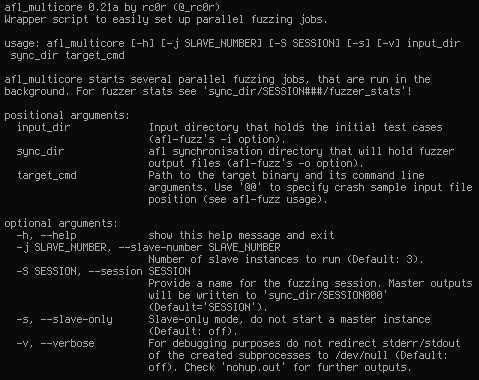
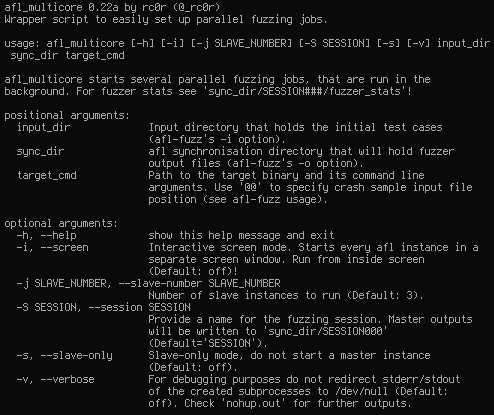
Screen mode added to afl_multicore

diff --git a/afl_utils/afl_multicore.py b/afl_utils/afl_multicore.py
@@ -17,6 +17,7 @@ limitations under the License.
 import argparse
 import subprocess
 import sys
+import time
 
 import afl_utils
 
@@ -30,18 +31,53 @@ def show_info():
     print("")
 
 
+def check_screen():
+    inside_screen = False
+    try:
+        screen_output = subprocess.check_output("screen -ls", shell=True, stderr=subprocess.DEVNULL,
+                                                universal_newlines=True)
+    except (subprocess.TimeoutExpired, subprocess.CalledProcessError) as e:
+        screen_output = e.output
+
+    screen_output = screen_output.splitlines()
+
+    for line in screen_output:
+        if "(Attached)" in line:
+            inside_screen = True
+
+    return inside_screen
+
+
+def setup_screen(slave_only, slave_num):
+    windows = slave_num
+
+    if not slave_only:
+        windows += 1
+
+    # create number of windows
+    for i in range(0, windows, 1):
+        subprocess.Popen(["screen"])
+        time.sleep(.01)
+
+    # go back to 1st window
+    subprocess.Popen("screen -X select 1".split())
+
+
 def main(argv):
     show_info()
 
     parser = argparse.ArgumentParser(description="afl_multicore starts several parallel fuzzing jobs, that are run \
 in the background. For fuzzer stats see 'sync_dir/SESSION###/fuzzer_stats'!",
-                                     usage="afl_multicore [-h] [-j SLAVE_NUMBER] [-S SESSION] [-s] [-v] input_dir\n \
+                                     usage="afl_multicore [-h] [-i] [-j SLAVE_NUMBER] [-S SESSION] [-s] [-v] input_dir\n \
 sync_dir target_cmd")
 
     parser.add_argument("input_dir",
                         help="Input directory that holds the initial test cases (afl-fuzz's -i option).")
     parser.add_argument("sync_dir", help="afl synchronisation directory that will hold fuzzer output files \
 (afl-fuzz's -o option).")
+    parser.add_argument("-i", "--screen", dest="screen", action="store_const", const=True,
+                        default=False, help="Interactive screen mode. Starts every afl instance in a separate screen \
+window. Run from inside screen (Default: off)!")
     parser.add_argument("-j", "--slave-number", dest="slave_number", help="Number of slave instances to run (Default: \
 3).", default=3)
     parser.add_argument("-S", "--session", dest="session",
@@ -70,35 +106,52 @@ Use '@@' to specify crash sample input file position (see afl-fuzz usage).")
         print("No valid directory provided for <sync_dir>!")
         return
 
+    if args.screen:
+        if not check_screen():
+            print("When using screen mode, please run afl_multicore from inside a screen session!")
+            return
+
+        setup_screen(args.slave_only, args.slave_number)
+
     if not args.slave_only:
         # compile command-line for master
-        # afl-master instance:
         # $ afl-fuzz -i <input_dir> -o <sync_dir> -M <session_name>.000 </path/to/target.bin> <target_args>
         master_cmd = "%s -i %s -o %s -M %s000 -- %s" % (afl_path, input_dir, sync_dir, args.session, " ".join(args.target_cmd))
         print("Starting master instance...")
 
-        if not args.verbose:
-            master = subprocess.Popen(" ".join(['nohup', master_cmd]).split(), stdout=subprocess.DEVNULL, stderr=subprocess.DEVNULL)
+        if not args.screen:
+            if not args.verbose:
+                master = subprocess.Popen(" ".join(['nohup', master_cmd]).split(), stdout=subprocess.DEVNULL, stderr=subprocess.DEVNULL)
+            else:
+                master = subprocess.Popen(" ".join(['nohup', master_cmd]).split())
+            print("Master 000 started (PID: %d)" % master.pid)
         else:
-            master = subprocess.Popen(" ".join(['nohup', master_cmd]).split())
+            screen_cmd = ["screen", "-X", "eval", "exec %s" % master_cmd, "next"]
+            subprocess.Popen(screen_cmd)
+            print("Master 000 started inside new screen window")
 
-        print("Master started (PID: %d)" % master.pid)
-
-    # compile command-lines for slaves
-    # afl-slave instance:
+    # compile command-line for slaves
     # $ afl-fuzz -i <input_dir> -o <sync_dir> -S <session_name>.NNN </path/to/target.bin> <target_args>
     print("Starting slave instances...")
     for i in range(1, int(args.slave_number)+1, 1):
         slave_cmd = "%s -i %s -o %s -S %s%03d -- %s" % (afl_path, input_dir, sync_dir, args.session, i, " ".join(args.target_cmd))
 
-        if not args.verbose:
-            slave = subprocess.Popen(" ".join(['nohup', slave_cmd]).split(), stdout=subprocess.DEVNULL, stderr=subprocess.DEVNULL)
+        if not args.screen:
+            if not args.verbose:
+                slave = subprocess.Popen(" ".join(['nohup', slave_cmd]).split(), stdout=subprocess.DEVNULL, stderr=subprocess.DEVNULL)
+            else:
+                slave = subprocess.Popen(" ".join(['nohup', slave_cmd]).split())
+            print("Slave %03d started (PID: %d)" % (i, slave.pid))
         else:
-            slave = subprocess.Popen(" ".join(['nohup', slave_cmd]).split())
+            screen_cmd = ["screen", "-X", "eval", "exec %s" % slave_cmd, "next"]
+            subprocess.Popen(screen_cmd)
+            print("Slave %03d started inside new screen window" % i)
 
-        print("Slave %03d started (PID: %d)" % (i, slave.pid))
-
-    print("\nFor progress info check: %s/%sxxx/fuzzer_stats!" % (args.sync_dir, args.session))
+    print("")
+    if not args.screen:
+        print("For progress info check: %s/%sxxx/fuzzer_stats!" % (args.sync_dir, args.session))
+    else:
+        print("Check the newly created screen windows!")
 
 
 if __name__ == "__main__":

diff --git a/afl_utils/__init__.py b/afl_utils/__init__.py
@@ -15,4 +15,4 @@ limitations under the License.
 """
 
 __author__ = 'rc0r (@_rc0r)'
-__version__ = "0.21a"
+__version__ = "0.22a"

diff --git a/README.md b/README.md
@@ -40,7 +40,8 @@ found with [american-fuzzy-lop (afl)](http://lcamtuf.coredump.cx/afl/).
           the crash collection step;
           [some ideas](https://groups.google.com/forum/#!topic/afl-users/b5v3mY_hy30))
 - [x] afl_multicore: wrapper script that starts multiple afl-instances for parallel fuzzing on multiple cores
-    - [ ] tmux/screen mode
+    - [x] screen mode
+    - [ ] tmux mode (only, if anybody wants to have that)
     - [ ] afl_multicore_exit/kill for quitting/killing all jobs at once
     - [ ] afl_multicore_watch for checking fuzzer_stats?
 - [ ] afl_resume: wrapper script that resumes multiple afl-instances at once
@@ -71,10 +72,11 @@ Sample output:
 afl's fancy interface is gone. Fuzzer outputs (`stdout` and `stderr`) will be redirected to `/dev/null`.
 Use `--verbose` to see the outputs (`nohup.out` might also contain some useful info).
 If you want to check the fuzzers' progress see `fuzzer_stats` in the respective fuzzer directory in
-the synchronisation dir (`sync_dir/SESSION###/fuzzer_stats`)!
-I might be adding some `tmux` or `screen` mode allowing to run the fuzzer instances in `tmux`/`screen`
-with a separate window for each instance. This would bring back the nice interface and would be handy
-in debugging faulty invocations of `afl-fuzz`.
+the synchronisation dir (`sync_dir/SESSION###/fuzzer_stats`)! The master instance files are always located
+at `sync_dir/SESSION000/`.
+In version 0.22a screen mode was introduced that can be enabled using the `-i` switch. In order to
+use it, start `afl_multicore` from inside a `screen` session. For every instance it will start the fancy
+afl-fuzz UI in a newly created screen window.
 
 Usage:  
 
@@ -94,19 +96,3 @@ Usage:
 
 ![afl_vcrash_usage](https://raw.githubusercontent.com/rc0r/afl-utils/master/.scrots/afl_vcrash_usage.png)
   
-### Changelog
-
-Release | Description
-:-------:|----
-0.10a | Initial release, just collect crash sample files
-0.11a | Crash sample file list creation added, afl_vcrash added
-0.12a | gdb+exploitable script generation added
-0.13a | Auto-cleanup of invalid crash samples added
-0.14a | gdb+exploitable script execution and output parsing added for easy crash classification
-0.15a | Code refactoring, minor bug fixes
-0.16a | Minor bug fix for gdb+exploitable script generation
-0.17a | Basic SQLite3 database support added
-0.18a | Fixed gdb+exploitable script interruptions that occur on graceful exits of the target binary
-0.19a | Added auto-cleanup feature for samples leading to uninteresting crashes
-0.20a | Sample collection from all `crashes*` sub directories added, minor bug fix for sample cleanup
-0.21a | Initial version of afl_multicore added

diff --git a/CHANGELOG.md b/CHANGELOG.md
@@ -1,0 +1,17 @@
+### afl-utils Changelog
+
+Release | Description
+:-------:|----
+0.22a | Screen mode added to afl_multicore
+0.21a | Initial version of afl_multicore added
+0.20a | Sample collection from all `crashes*` sub directories added, minor bug fix for sample cleanup
+0.19a | Added auto-cleanup feature for samples leading to uninteresting crashes
+0.18a | Fixed gdb+exploitable script interruptions that occur on graceful exits of the target binary
+0.17a | Basic SQLite3 database support added
+0.16a | Minor bug fix for gdb+exploitable script generation
+0.15a | Code refactoring, minor bug fixes
+0.14a | gdb+exploitable script execution and output parsing added for easy crash classification
+0.13a | Auto-cleanup of invalid crash samples added
+0.12a | gdb+exploitable script generation added
+0.11a | Crash sample file list creation added, afl_vcrash added
+0.10a | Initial release, just collect crash sample files
